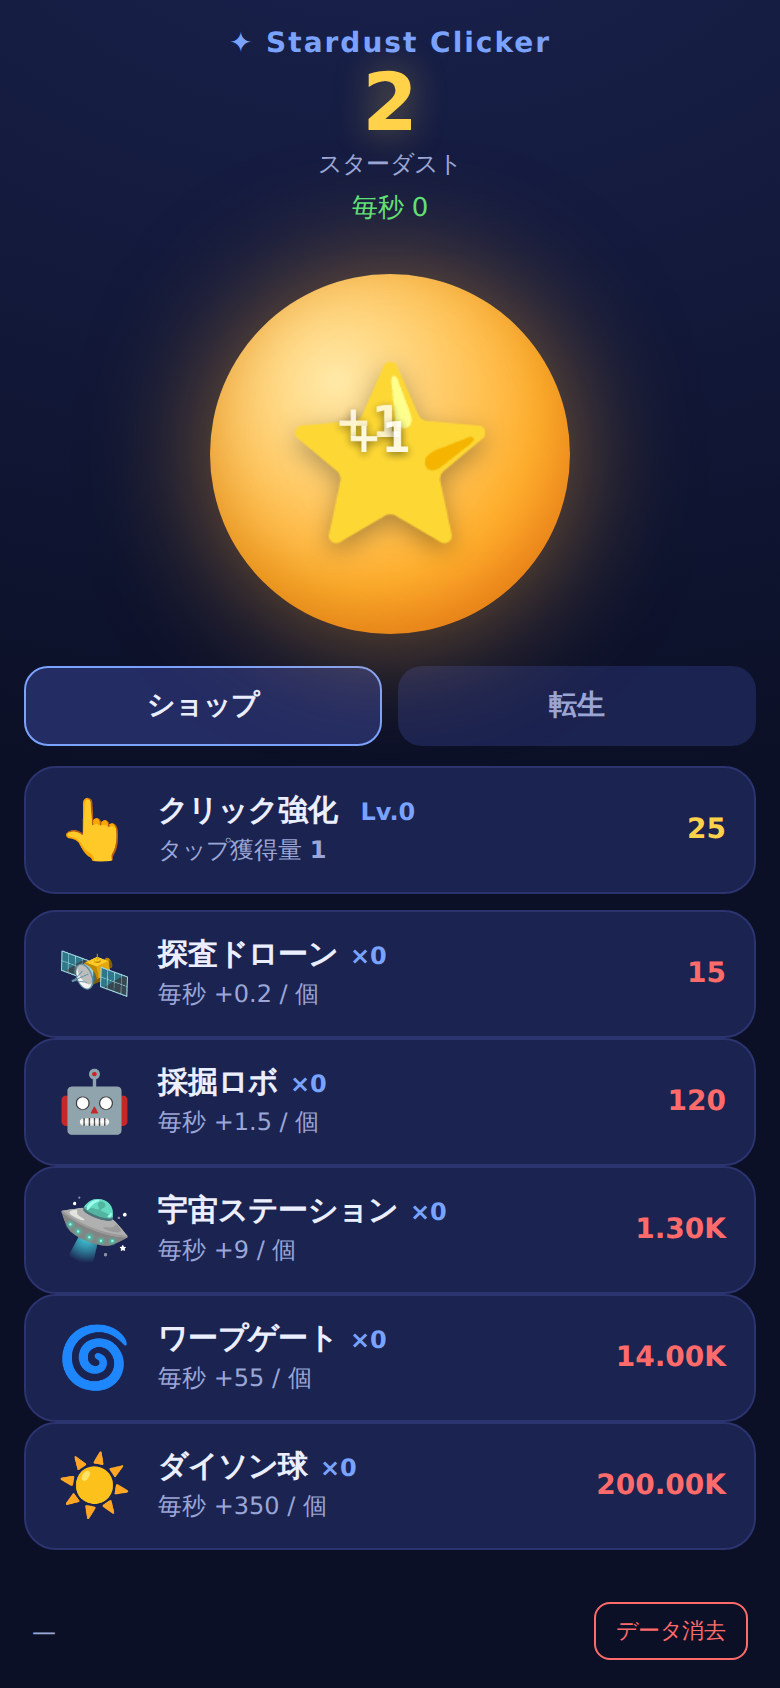
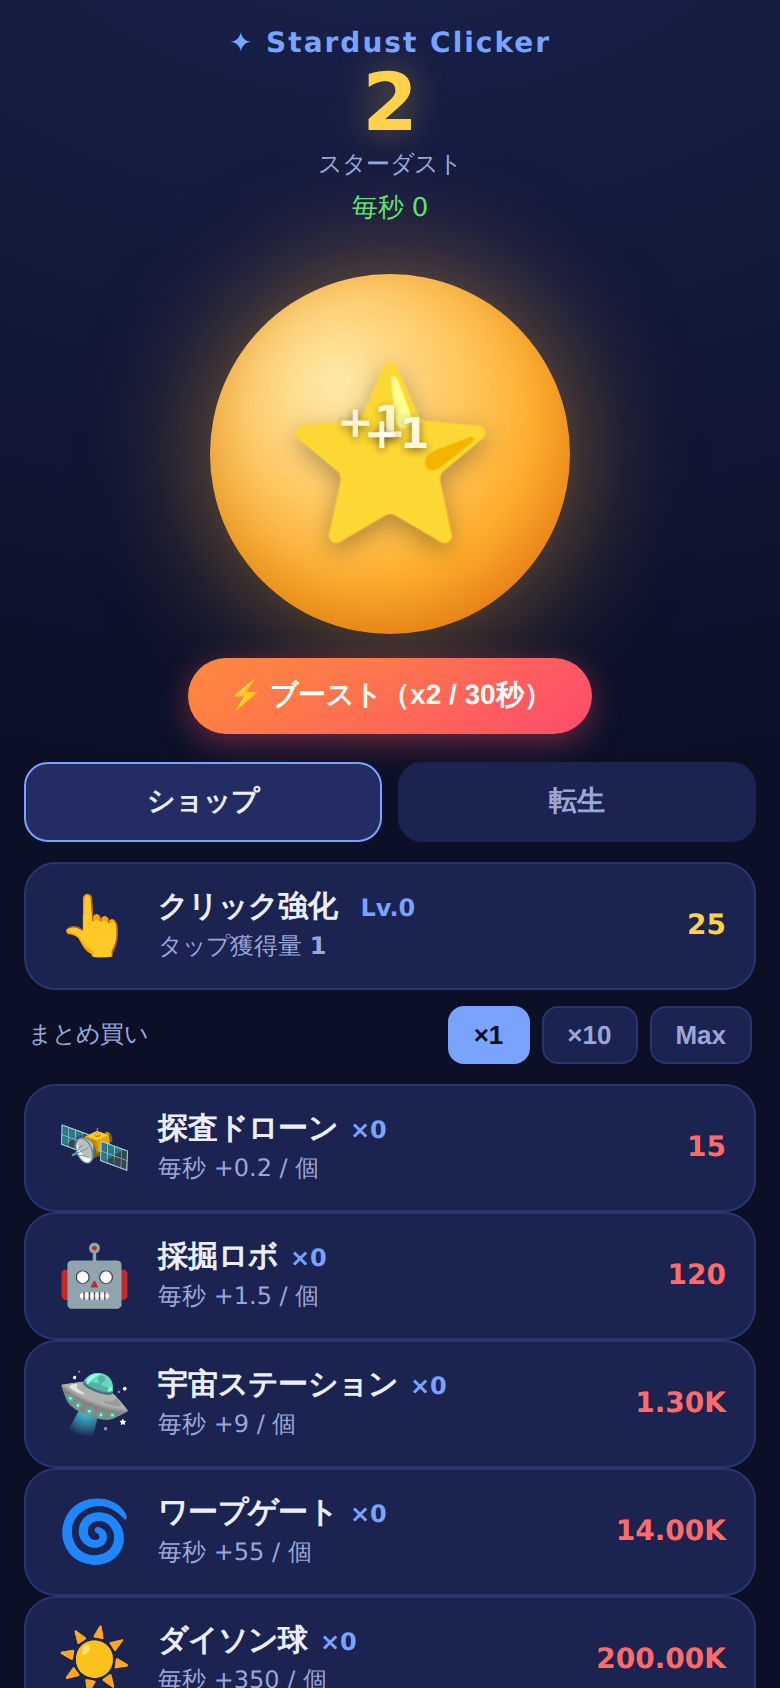
Add QoL features: bulk buy (x1/x10/Max) and tap boost
- F8 まとめ買い: ×1/×10/Max 切替。等比数列の和で合計コスト算出、
  Maxは所持額で買える最大数を一括購入
- F9 タップブースト: 30秒間 全生産・タップ x2、終了後120秒クールダウン
- SWキャッシュを v2 に更新、スクショ(04-qol)とdocs/README更新

Claude-Session: https://claude.ai/code/session_011xDstSLV2henTEo8QHpgUq

Changed region(s): [[0.0308, 0.3697, 0.9846, 1.0], [0.4308, 0.2464, 0.5538, 0.2773], [0.5231, 0.8009, 0.5846, 0.8318]]

diff --git a/game.js b/game.js
@@ -24,6 +24,13 @@
   const CLICK_BASE_COST = 25;
   const CLICK_COST_MUL = 1.6;
 
+  // QoL: まとめ買い / タップブースト
+  const BOOST_MULT = 2;                  // ブースト中の倍率
+  const BOOST_DURATION_MS = 30000;       // ブースト持続
+  const BOOST_COOLDOWN_MS = 120000;      // 再使用までのクールダウン
+  let boostUntil = 0;                    // ブースト終了時刻（保存しない）
+  let boostCooldownUntil = 0;            // クールダウン終了時刻（保存しない）
+
   // ---- State ----
   let state = newState();
 
@@ -34,24 +41,51 @@
       clickLevel: 0,
       generators: GENERATORS.map((g) => ({ id: g.id, count: 0 })),
       nebula: 0,
+      buyMode: 1,        // 1 | 10 | "max"
       lastSeen: Date.now(),
     };
   }
 
   // ---- 派生値 ----
   function nebulaMultiplier() { return 1 + state.nebula * NEBULA_PER_BONUS; }
-  function perClick() { return (1 + state.clickLevel) * nebulaMultiplier(); }
+  function boostActive() { return Date.now() < boostUntil; }
+  function boostMultiplier() { return boostActive() ? BOOST_MULT : 1; }
+  function globalMultiplier() { return nebulaMultiplier() * boostMultiplier(); }
+
+  function perClick() { return (1 + state.clickLevel) * globalMultiplier(); }
   function clickCost() { return Math.floor(CLICK_BASE_COST * Math.pow(CLICK_COST_MUL, state.clickLevel)); }
 
-  function genCost(i) {
+  // i 番目のユニットを現在の所持数から n 個買うときの合計コスト（等比数列の和）
+  function genCostN(i, n) {
     const def = GENERATORS[i];
-    return Math.floor(def.baseCost * Math.pow(def.costMul, state.generators[i].count));
+    const mul = def.costMul;
+    const first = def.baseCost * Math.pow(mul, state.generators[i].count);
+    return Math.floor((first * (Math.pow(mul, n) - 1)) / (mul - 1));
+  }
+
+  // 現在の所持スターダストで i 番目を最大何個買えるか
+  function maxAffordable(i) {
+    const def = GENERATORS[i];
+    const mul = def.costMul;
+    const first = def.baseCost * Math.pow(mul, state.generators[i].count);
+    const n = Math.floor(Math.log(1 + (state.stardust * (mul - 1)) / first) / Math.log(mul));
+    return Math.max(0, n);
+  }
+
+  // 現在の buyMode に応じた「購入数」と「合計コスト」
+  function buyPlan(i) {
+    if (state.buyMode === "max") {
+      const n = maxAffordable(i);
+      return { n, cost: genCostN(i, Math.max(1, n)) };
+    }
+    const n = state.buyMode;
+    return { n, cost: genCostN(i, n) };
   }
 
   function perSecond() {
     let raw = 0;
     GENERATORS.forEach((def, i) => { raw += def.rate * state.generators[i].count; });
-    return raw * nebulaMultiplier();
+    return raw * globalMultiplier();
   }
 
   function nebulaGain() {
@@ -92,6 +126,7 @@
     prestigeButton: el("prestigeButton"),
     prestigeHint: el("prestigeHint"),
     saveStatus: el("saveStatus"),
+    boostButton: el("boostButton"),
   };
 
   // 生成: 自動生産ユニットのカード
@@ -129,10 +164,25 @@
   }
 
   function buyGenerator(i) {
-    const cost = genCost(i);
-    if (state.stardust < cost) return;
+    const { n, cost } = buyPlan(i);
+    if (n < 1 || state.stardust < cost) return;
     state.stardust -= cost;
-    state.generators[i].count += 1;
+    state.generators[i].count += n;
+    render();
+  }
+
+  function setBuyMode(mode) {
+    state.buyMode = mode;
+    document.querySelectorAll(".bm").forEach((b) =>
+      b.classList.toggle("active", String(b.dataset.mode) === String(mode)));
+    render();
+  }
+
+  function activateBoost() {
+    const now = Date.now();
+    if (now < boostUntil || now < boostCooldownUntil) return;
+    boostUntil = now + BOOST_DURATION_MS;
+    boostCooldownUntil = boostUntil + BOOST_COOLDOWN_MS;
     render();
   }
 
@@ -180,19 +230,23 @@
     dom.clickCost.textContent = fmt(cCost);
     dom.clickUpgrade.classList.toggle("affordable", state.stardust >= cCost);
 
-    // 自動生産
+    // 自動生産（まとめ買い対応）
     GENERATORS.forEach((def, i) => {
-      const cost = genCost(i);
+      const { n, cost } = buyPlan(i);
+      const affordable = n >= 1 && state.stardust >= cost;
       const countEl = dom.generators.querySelector(`[data-count="${i}"]`);
       const costEl = dom.generators.querySelector(`[data-cost="${i}"]`);
       if (countEl) countEl.textContent = `×${state.generators[i].count}`;
       if (costEl) {
-        costEl.textContent = fmt(cost);
-        costEl.classList.toggle("cant", state.stardust < cost);
+        const qty = state.buyMode === "max" ? (n >= 1 ? `×${n}  ` : "×0  ") : "";
+        costEl.textContent = qty + fmt(cost);
+        costEl.classList.toggle("cant", !affordable);
       }
       const card = costEl && costEl.closest(".gen-card");
-      if (card) card.classList.toggle("affordable", state.stardust >= cost);
+      if (card) card.classList.toggle("affordable", affordable);
     });
+
+    renderBoost();
 
     // 転生
     dom.nebula.textContent = fmt(state.nebula);
@@ -202,6 +256,27 @@
     dom.prestigeButton.disabled = gain <= 0;
     dom.prestigeHint.textContent =
       gain <= 0 ? `次のネビュラまで累計 ${fmt(NEBULA_DIVISOR * Math.pow(state.nebula + 1, 2))} の獲得が必要` : "";
+  }
+
+  function renderBoost() {
+    const now = Date.now();
+    const btn = dom.boostButton;
+    if (!btn) return;
+    if (now < boostUntil) {
+      const s = Math.ceil((boostUntil - now) / 1000);
+      btn.textContent = `⚡ ブースト中 x${BOOST_MULT}（残り${s}秒）`;
+      btn.className = "boost active";
+      btn.disabled = true;
+    } else if (now < boostCooldownUntil) {
+      const s = Math.ceil((boostCooldownUntil - now) / 1000);
+      btn.textContent = `⏳ クールダウン（${s}秒）`;
+      btn.className = "boost cooldown";
+      btn.disabled = true;
+    } else {
+      btn.textContent = `⚡ ブースト（x${BOOST_MULT} / ${BOOST_DURATION_MS / 1000}秒）`;
+      btn.className = "boost";
+      btn.disabled = false;
+    }
   }
 
   // ---- ゲームループ ----
@@ -270,6 +345,15 @@
     });
     dom.clickUpgrade.addEventListener("click", buyClickUpgrade);
     dom.prestigeButton.addEventListener("click", doPrestige);
+    dom.boostButton.addEventListener("click", activateBoost);
+
+    // まとめ買いモード
+    document.querySelectorAll(".bm").forEach((b) => {
+      b.addEventListener("click", () => {
+        const m = b.dataset.mode === "max" ? "max" : Number(b.dataset.mode);
+        setBuyMode(m);
+      });
+    });
     el("wipeButton").addEventListener("click", wipe);
     el("welcomeClose").addEventListener("click", () =>
       el("welcomeModal").classList.add("hidden"));
@@ -295,6 +379,7 @@
     buildGeneratorCards();
     load();
     bind();
+    setBuyMode(state.buyMode || 1);
     applyOfflineEarnings();
     render();
     setInterval(loop, TICK_MS);

diff --git a/styles.css b/styles.css
@@ -93,6 +93,35 @@ html, body {
   100% { opacity: 0; transform: translateY(-70px) scale(1.4); }
 }
 
+/* ---- Boost ---- */
+.boost-bar { display: flex; justify-content: center; padding: 2px 0 8px; }
+.boost {
+  background: linear-gradient(135deg, #ff8a3d, #ff4d6d);
+  color: #fff; border: none; border-radius: 999px;
+  padding: 10px 20px; font-size: 14px; font-weight: 800; cursor: pointer;
+  box-shadow: 0 4px 16px rgba(255, 80, 100, 0.4);
+}
+.boost.active {
+  background: linear-gradient(135deg, #ffd24a, #ff8a3d);
+  animation: pulse 0.8s ease-in-out infinite;
+}
+.boost.cooldown { background: #2b346e; color: var(--muted); box-shadow: none; }
+.boost:disabled { cursor: default; }
+@keyframes pulse {
+  0%, 100% { transform: scale(1); }
+  50% { transform: scale(1.05); }
+}
+
+/* ---- Buy mode ---- */
+.buymode { display: flex; align-items: center; gap: 6px; padding: 0 2px 2px; }
+.buymode-label { font-size: 12px; color: var(--muted); margin-right: auto; }
+.bm {
+  background: var(--card); color: var(--muted);
+  border: 1px solid #2b346e; border-radius: 8px;
+  padding: 6px 12px; font-size: 13px; font-weight: 700; cursor: pointer;
+}
+.bm.active { background: var(--accent2); color: #0b1026; border-color: var(--accent2); }
+
 /* ---- Tabs ---- */
 .tabs { display: flex; gap: 8px; margin: 6px 0 10px; }
 .tab {

diff --git a/index.html b/index.html
@@ -28,6 +28,10 @@
       <div id="floaters" class="floaters" aria-hidden="true"></div>
     </section>
 
+    <div class="boost-bar">
+      <button id="boostButton" class="boost">⚡ ブースト</button>
+    </div>
+
     <nav class="tabs">
       <button class="tab active" data-tab="shop">ショップ</button>
       <button class="tab" data-tab="prestige">転生</button>
@@ -41,6 +45,12 @@
           <div class="up-desc">タップ獲得量 <strong id="perClick">1</strong></div>
         </div>
         <div class="up-cost" id="clickCost">25</div>
+      </div>
+      <div class="buymode">
+        <span class="buymode-label">まとめ買い</span>
+        <button class="bm active" data-mode="1">×1</button>
+        <button class="bm" data-mode="10">×10</button>
+        <button class="bm" data-mode="max">Max</button>
       </div>
       <div id="generators"></div>
     </section>

diff --git a/sw.js b/sw.js
@@ -1,5 +1,5 @@
 /* Service Worker — オフライン動作のための簡易キャッシュ */
-const CACHE = "stardust-clicker-v1";
+const CACHE = "stardust-clicker-v2";
 const ASSETS = [
   "./",
   "./index.html",

diff --git a/README.md b/README.md
@@ -26,12 +26,14 @@
 - **F5 桁表記** — K / M / B / T … のサフィックス
 - **F6 セーブ/ロード** — localStorage に自動保存・自動復元
 - **F7 転生（ネビュラ）** — 進行リセットと引き換えに永続 +2%/個ブースト
+- **F8 まとめ買い** — ×1 / ×10 / Max を切替（Max は所持額で買える最大数を一括購入）
+- **F9 タップブースト** — 一定時間 全生産・タップが ×2、終了後クールダウン
 
 ## スクリーンショット
 
-| 初期状態 | 進行後 | 転生タブ |
-|---|---|---|
-| ![start](docs/screenshots/01-start.png) | ![progress](docs/screenshots/02-progress.png) | ![prestige](docs/screenshots/03-prestige.png) |
+| 初期状態 | 進行後 | 転生タブ | QoL（Max買い＋ブースト中） |
+|---|---|---|---|
+| ![start](docs/screenshots/01-start.png) | ![progress](docs/screenshots/02-progress.png) | ![prestige](docs/screenshots/03-prestige.png) | ![qol](docs/screenshots/04-qol.png) |
 
 > Chromium（iPhone 相当 390×844）で実配信・操作して撮影。
 > 撮影スクリプト: [docs/screenshots/shot.mjs](docs/screenshots/shot.mjs)（Playwright）

diff --git a/docs/02_requirements.md b/docs/02_requirements.md
@@ -18,6 +18,13 @@
 | F6 | セーブ/ロード | localStorage に自動保存・自動復元 | 継続プレイの前提 |
 | F7 | 転生(プレステージ) | 進行リセットと引き換えに恒久倍率を獲得 | 長期リテンションの要 |
 
+### 追加実装済み（QoL / MVP 後の第1弾）
+
+| # | 要素 | 内容 | 根拠（市場調査） |
+|---|------|------|------------------|
+| F8 | まとめ買い | ×1 / ×10 / Max を切替。等比数列の和で合計コスト算出、Max は所持額で買える最大数を購入 | 中盤以降の快適性（UI の快適性が選択基準） |
+| F9 | タップブースト | 一定時間 全生産・タップが ×2、終了後クールダウン | リワード型ブーストの無課金版。リテンション施策 |
+
 ### MVP では入れない（Should / Could / 後続）
 
 - 収益化（IAP・リワード広告） … まずコアループの面白さ検証を優先